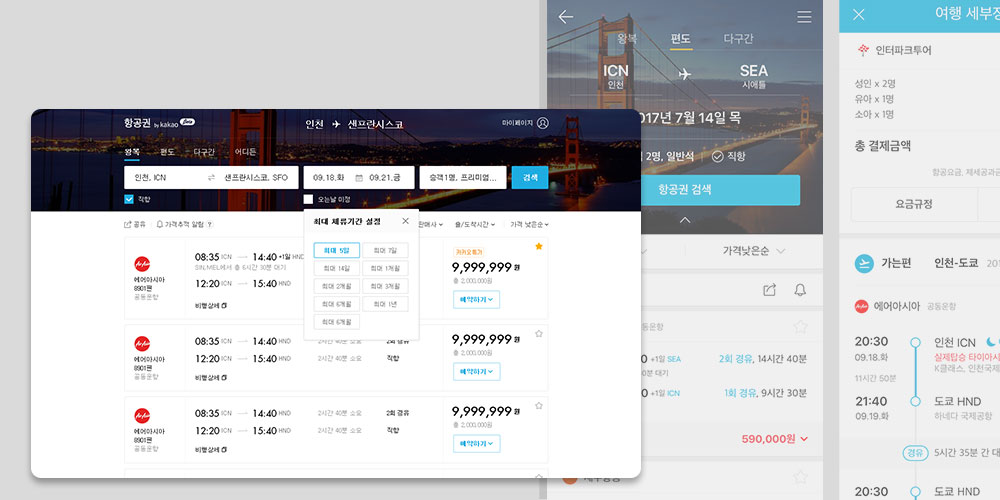
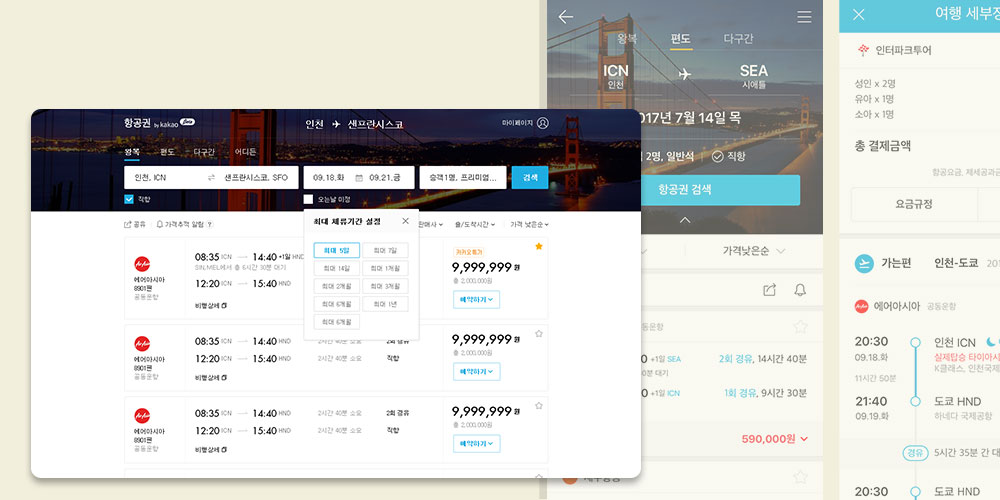
modify

diff --git a/assets/css/style.css b/assets/css/style.css
@@ -221,11 +221,11 @@ ul,ol,li,p,dt,dd,figure{padding:0;margin:0}
 .m-t-50{margin-top:50px !important}
 
 .modal{display:none;overflow:auto;position:fixed;z-index:100;left:0;top:0;width:100%;height:100%;background-color:rgb(0,0,0);background-color: rgba(0,0,0,0.6)}
-.modal__inner{overflow:hidden;width:1010px;max-height:800px;padding-bottom:15px;background-color:#dadada;border-radius:10px;margin:4% auto;box-shadow:0 0 8px rgba(0,0,0,0.3);box-sizing:border-box}
+.modal__inner{overflow:hidden;width:1010px;max-height:800px;padding-bottom:15px;background-color:#f2efdc;border-radius:10px;margin:4% auto;box-shadow:0 0 8px rgba(0,0,0,0.3);box-sizing:border-box}
 .modal__close{display:inline-block;width:28px;height:28px;padding:5px;border:2px solid #aaaaaa;border-radius:50%;color:#aaaaaa;text-align:center;line-height:26px;transition:all ease 0.3s;cursor:pointer}
 .modal__close:hover,.modal__close:focus{border-color:#b392d2;color:#b392d2;text-decoration:none;cursor:pointer;transform:rotate(180deg);transition:all ease 0.3s}
-.modal__content{position:relative;width:100%;text-align:center;border-top:1px solid #666666;border-bottom:1px solid #666666}
-.modal__inner-head{display:block;width:100%;padding:20px;text-align:right;box-sizing:border-box}
+.modal__content{position:relative;width:100%;text-align:center;border-top:1px solid #a49d71;border-bottom:1px solid #a49d71}
+.modal__inner-head{display:block;width:100%;padding:20px;background-color:#17171A;text-align:right;box-sizing:border-box}
 
 .modal__website{position:absolute;top:0;right:0;display:inline-block;padding:5px 10px;margin-right:5px;border:1px solid rgba(250,250,250,0.8);border-radius:5px;font-size:0.875rem;color:rgba(250,250,250,0.8);text-align:center;line-height:1.25;cursor:pointer}
 
@@ -266,7 +266,7 @@ ul,ol,li,p,dt,dd,figure{padding:0;margin:0}
 
 .owl-nav button span{display:none}
 
-.owl-theme .owl-dots .owl-dot span:before{position:absolute;display:none;top:-52px;left:36px;font-family:'Noto Sans KR',sans-serif;font-weight:700;font-size:1.25rem}
+.owl-theme .owl-dots .owl-dot span:before{position:absolute;display:none;top:-52px;left:36px;font-family:'Noto Sans KR',sans-serif;font-weight:700;font-size:1.25rem;color:#f2efdc}
 .owl-theme .owl-dots .owl-dot.active span:before{display:block}
 .owl-theme .owl-dots .owl-dot:nth-child(1) span:before{content:'스테리움 웹사이트(제천/서천/변산)'}
 .owl-theme .owl-dots .owl-dot:nth-child(2) span:before{content:'플러스앤 여행 복지몰'}
